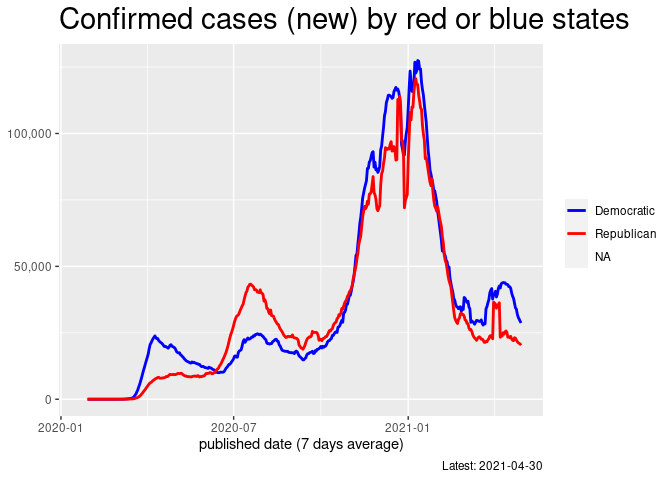
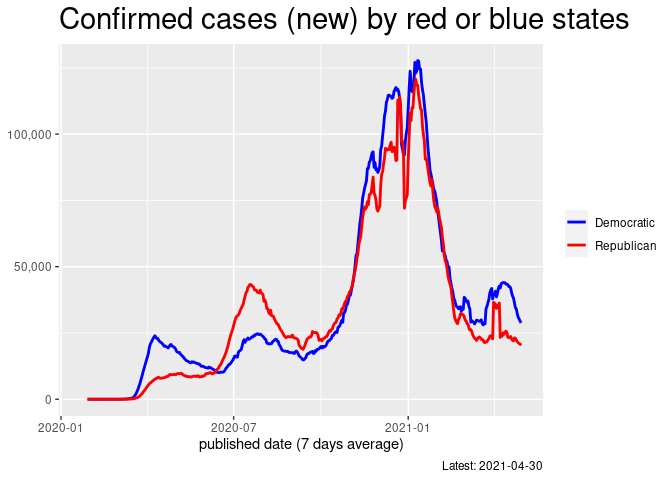
adapt to a change in wikipedia

diff --git a/USA.md b/USA.md
@@ -40,12 +40,11 @@ states in the United States may cause the second wave.
 
 Populations in millions by red or blue are:
 
-    ## # A tibble: 3 x 2
+    ## # A tibble: 2 x 2
     ##   party      pop_mil
     ##   <chr>        <dbl>
-    ## 1 Democratic 177.   
-    ## 2 Republican 151.   
-    ## 3 <NA>         0.706
+    ## 1 Democratic    178.
+    ## 2 Republican    151.
 
 ## Fastest spreading states in the last 14 days
 
